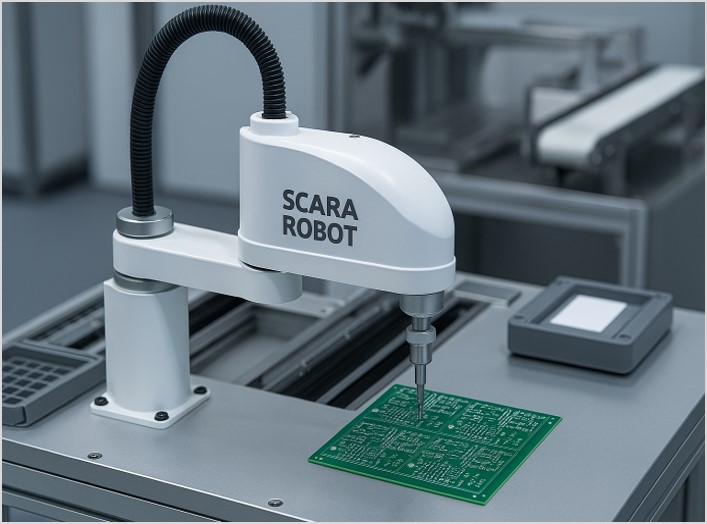
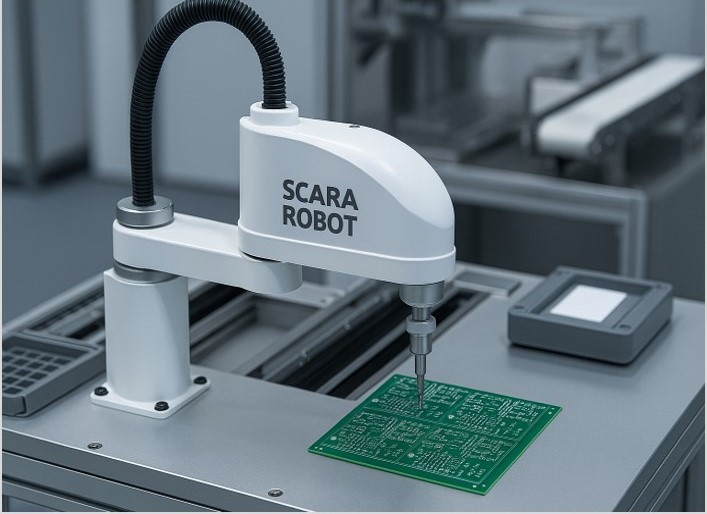
응용분야 사진 아래가 잘려보이는 문제 해결

diff --git a/src/styles/pages/_business.scss b/src/styles/pages/_business.scss
@@ -264,6 +264,11 @@
       .app-item {
         .media-box {
           overflow: hidden;
+
+          img {
+            height: 100%;
+            object-fit: cover;
+          }
         }
 
         .text-box {
